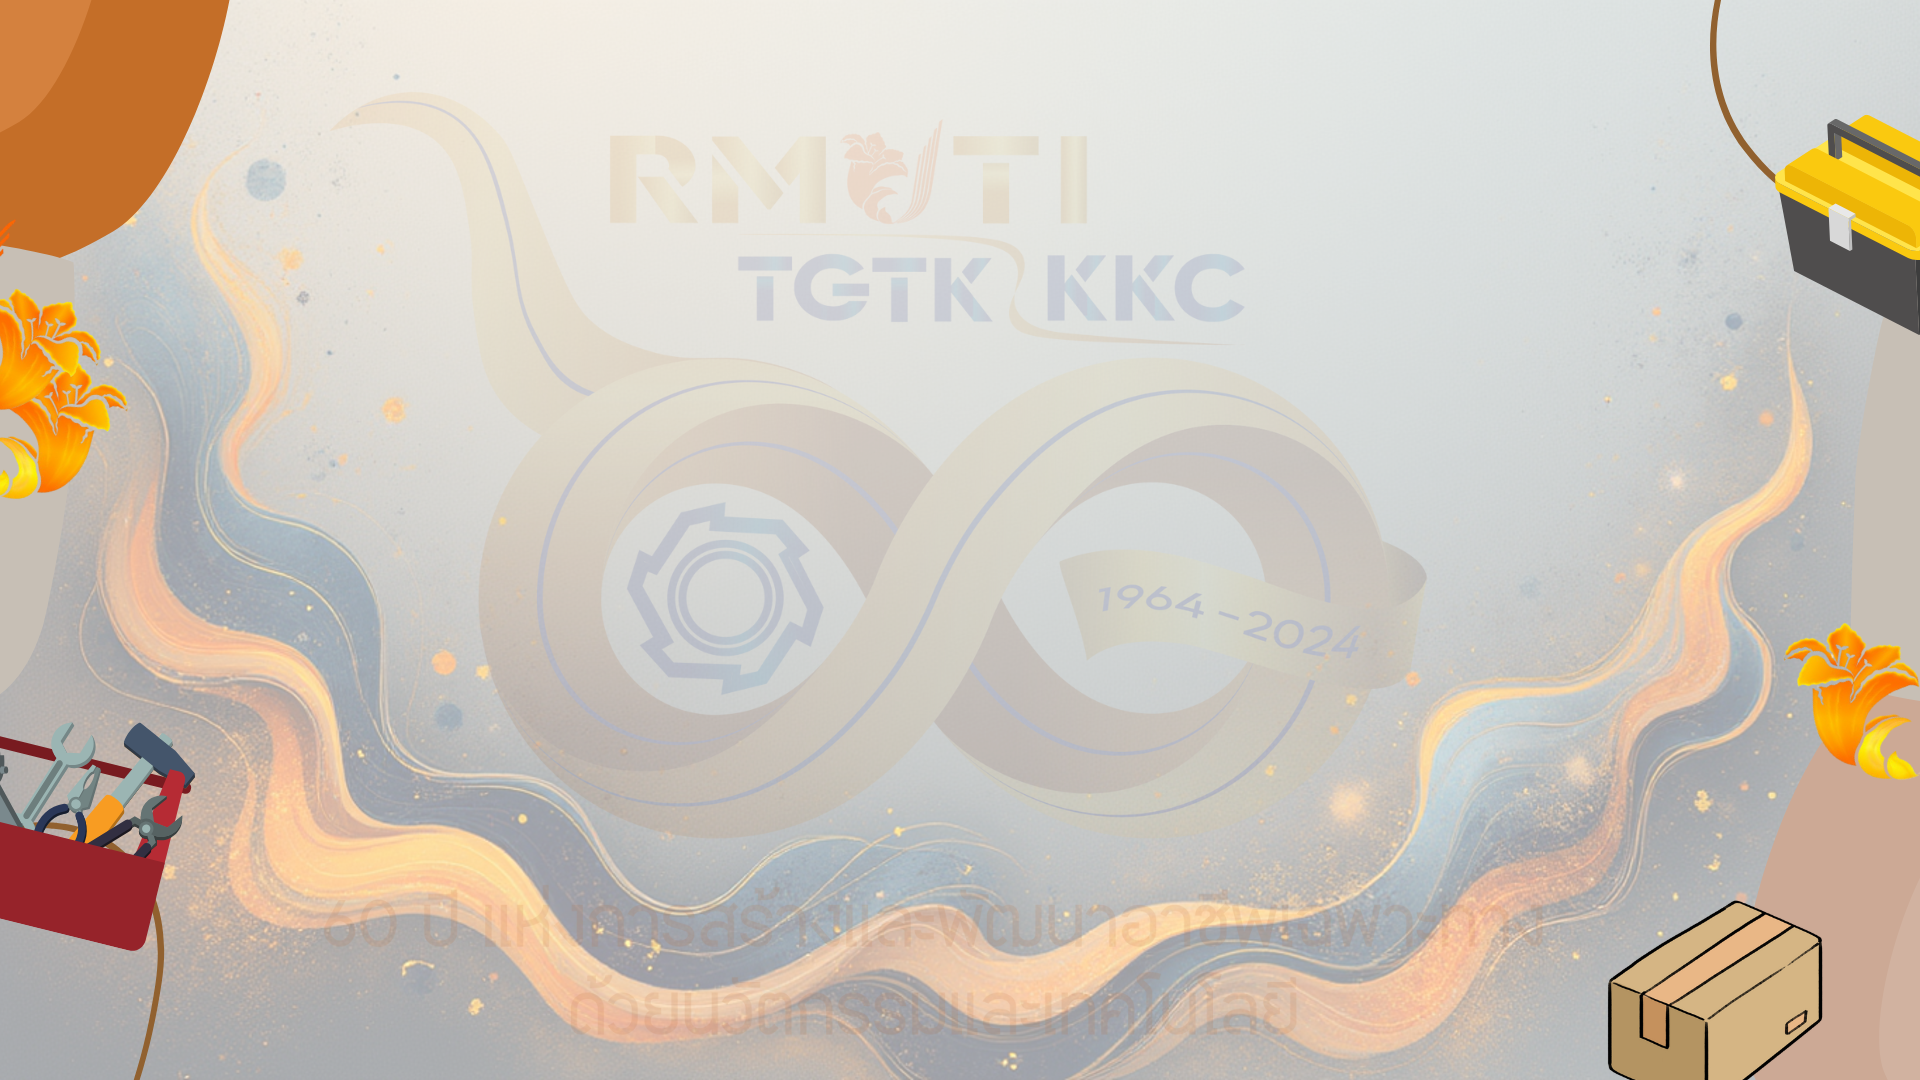
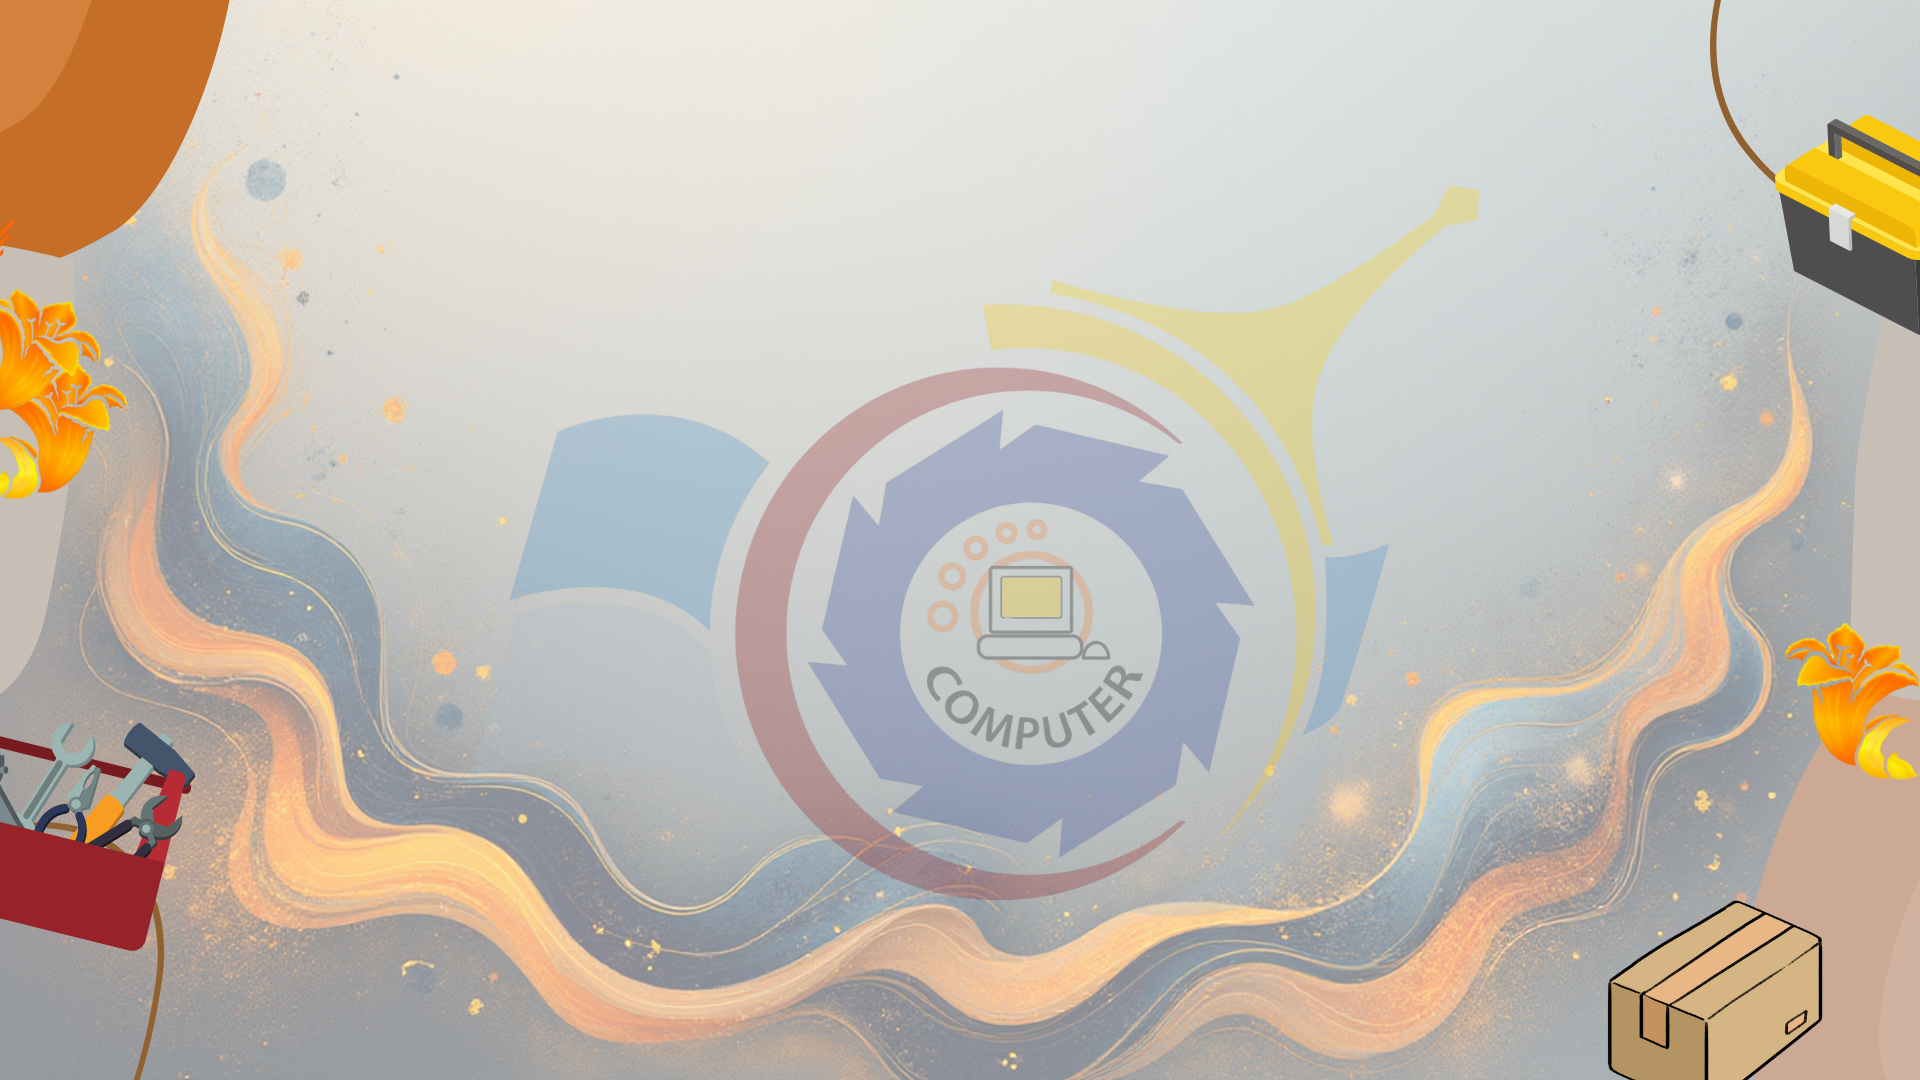
new bg image

Changed region(s): [[0.25, 0.1528, 0.7812, 0.8556]]

diff --git a/client/src/pages/Home.jsx b/client/src/pages/Home.jsx
@@ -3,7 +3,7 @@ import AOS from 'aos';
 import 'aos/dist/aos.css';
 import Typed from 'typed.js';
 import bg from '../assets/bbb.png';
-import bg2 from '../assets/BG3.jpg';
+import bg2 from '../assets/bg2.png';
 import axios from 'axios';
 import { Link } from "react-router-dom";
 import useAuth from "../hooks/useAuth";
